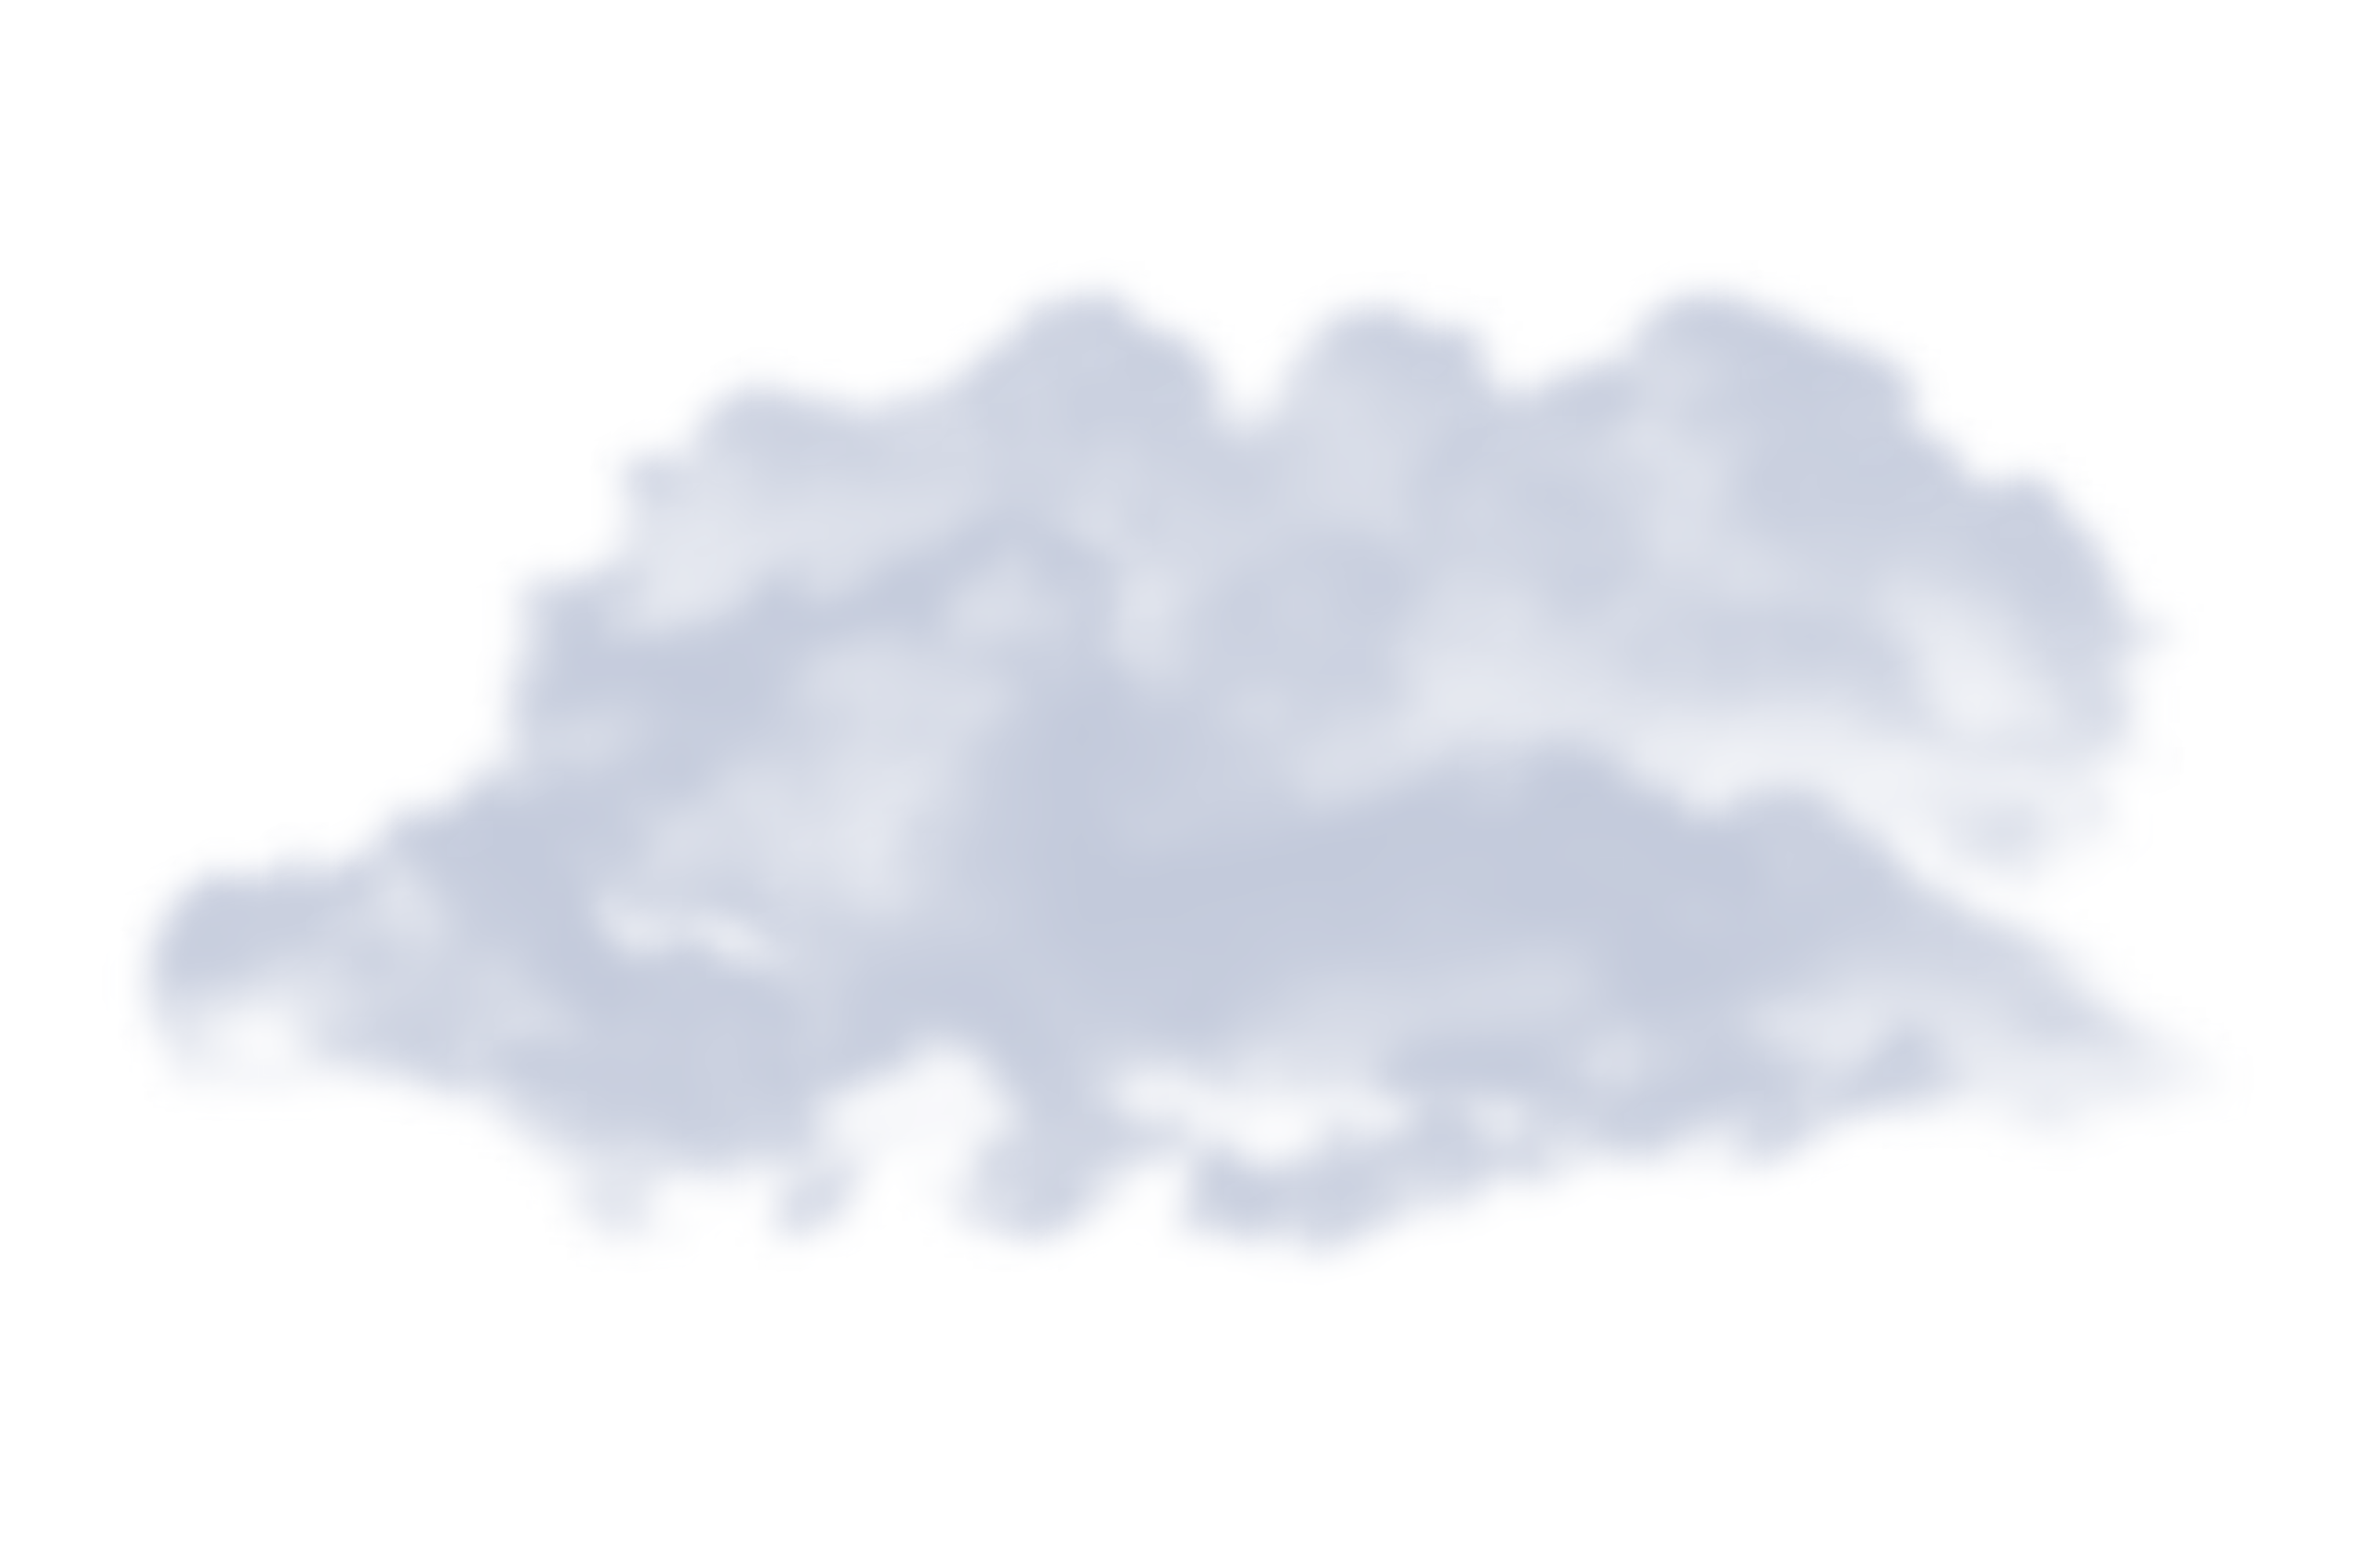
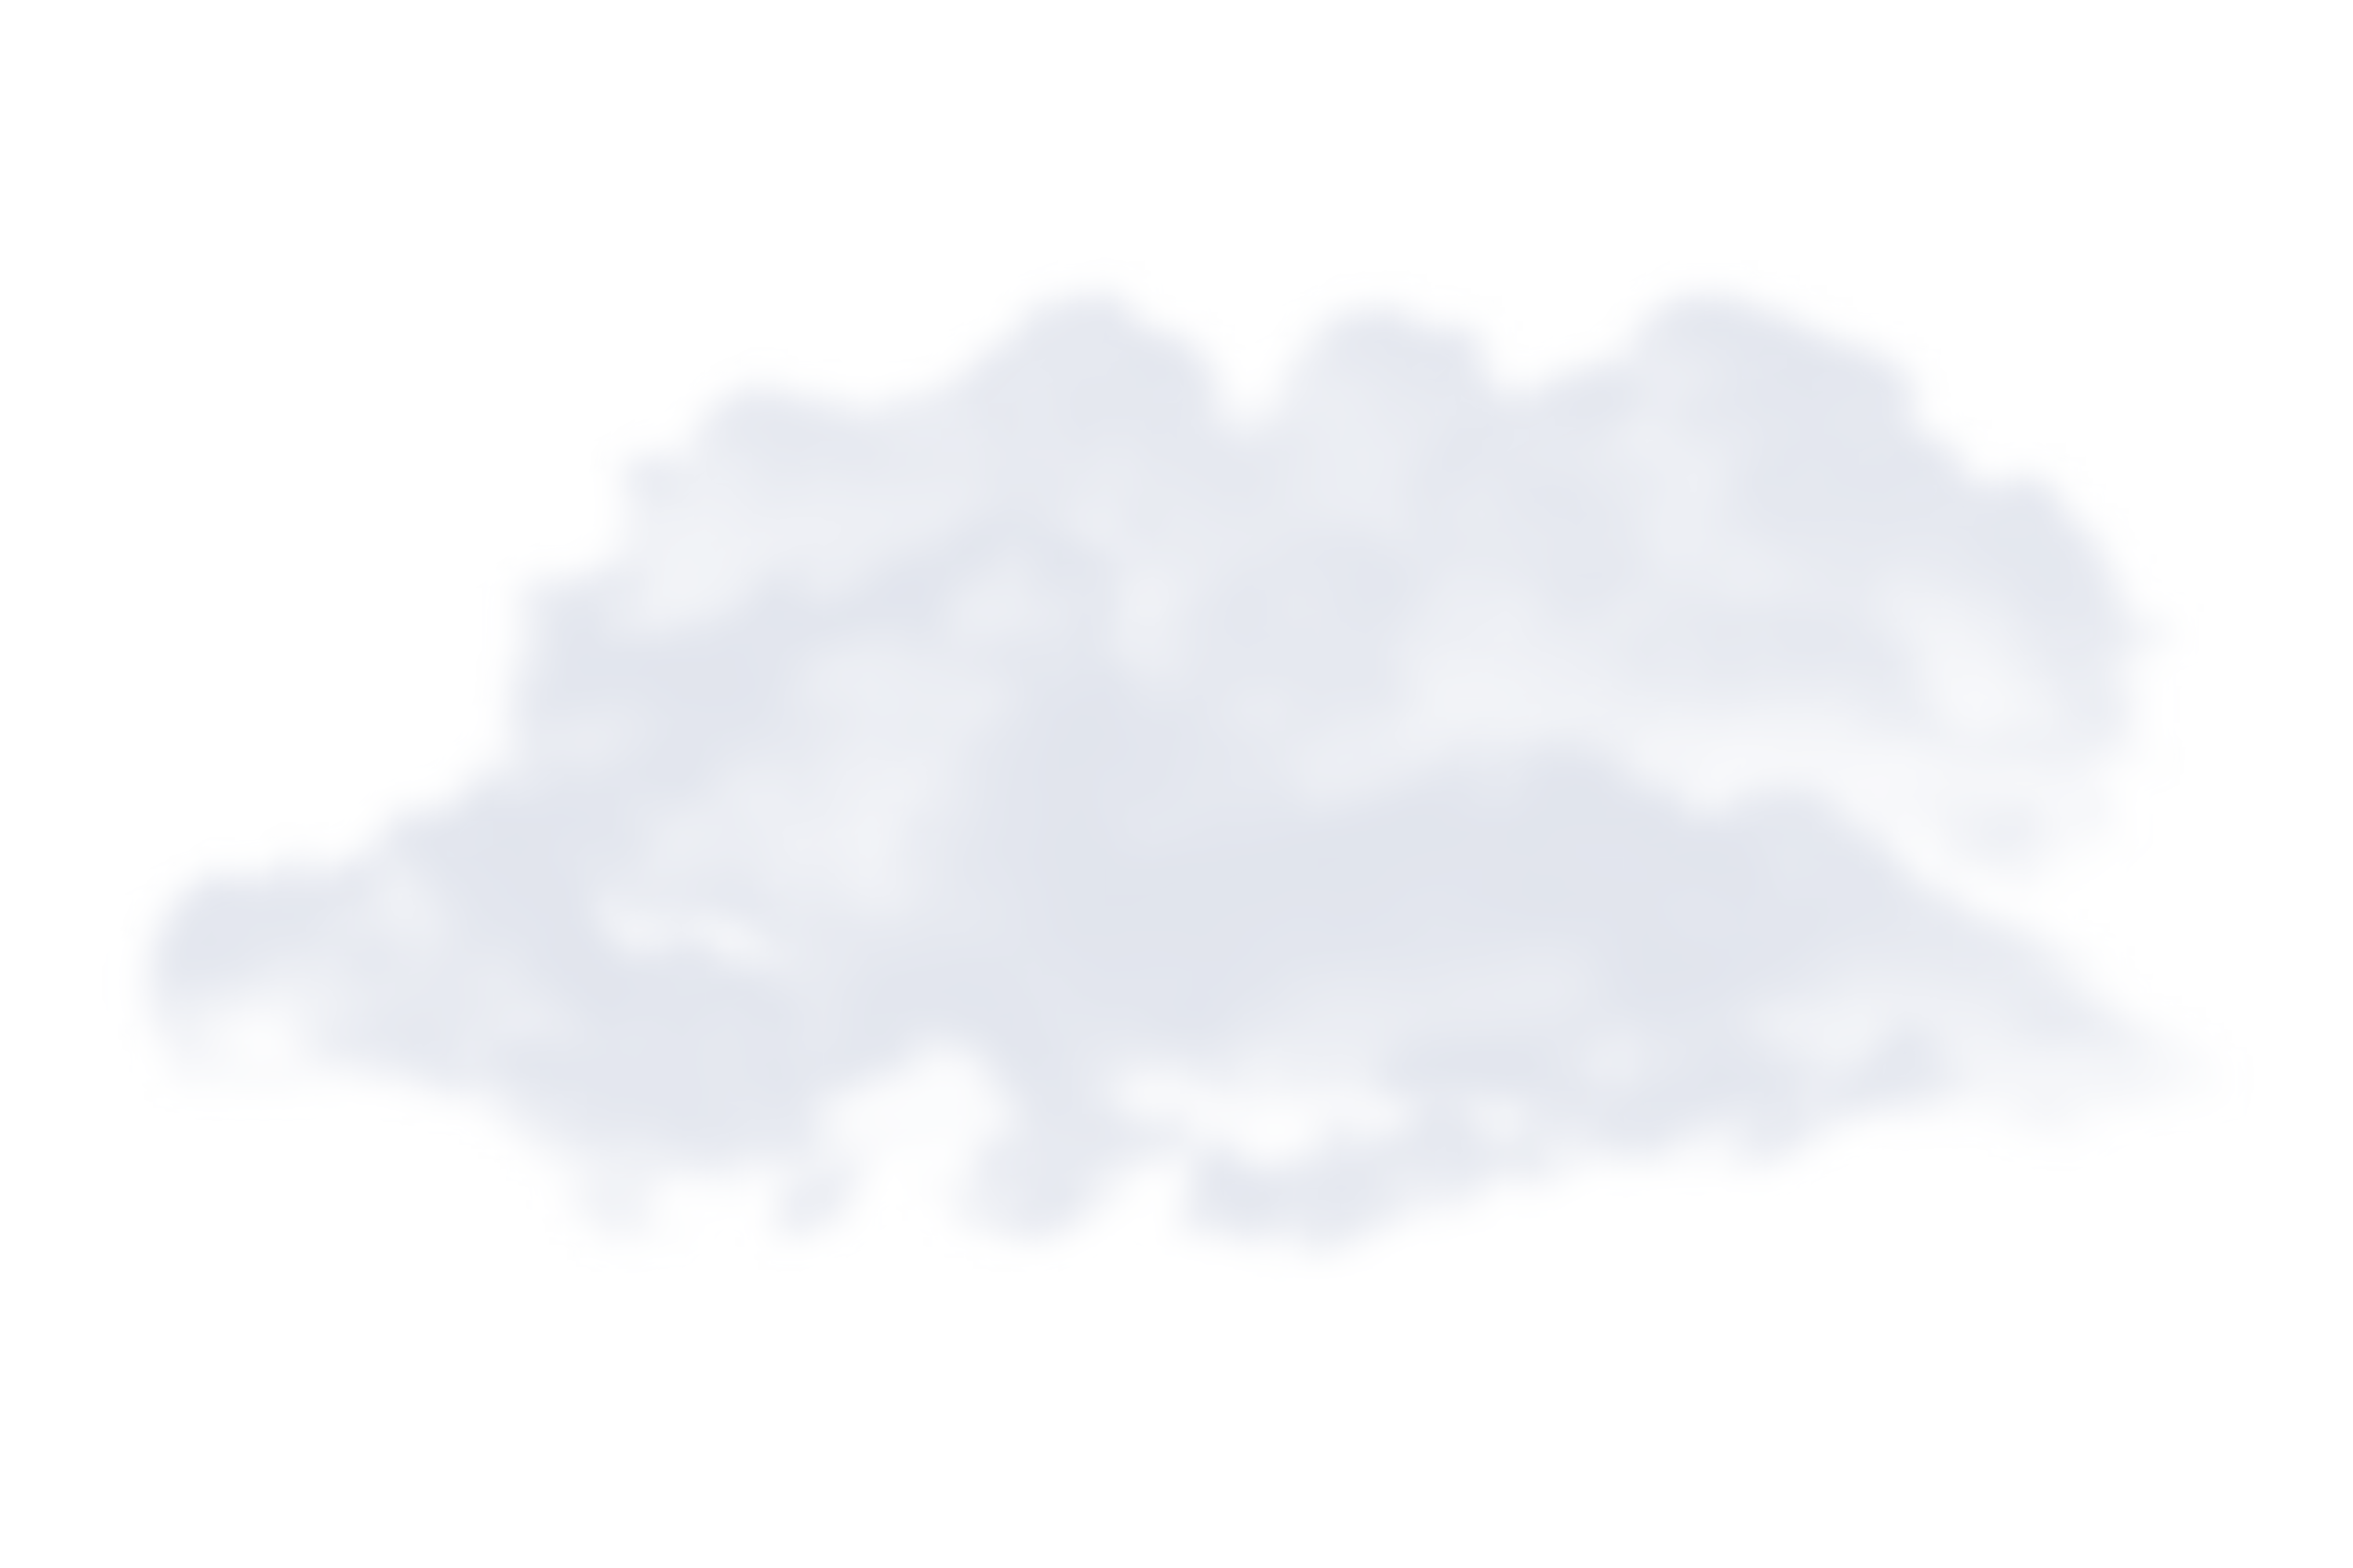
Update background style

diff --git a/src/styles/global.css b/src/styles/global.css
@@ -17,6 +17,7 @@ html {
   height: 100%;
   scrollbar-gutter: stable;
   background-image: url("/assets/cloud.png"), var(--sky-gradient);
+  background-size: 300% 40%, 100% 100%;
   background-repeat: no-repeat;
   background-attachment: fixed;
   animation: gradient 300s ease infinite;
@@ -29,13 +30,13 @@ a {
 
 @keyframes gradient {
   0% {
-    background-position: 0% 50%;
+    background-position: -50% 90%;
   }
   50% {
-    background-position: 100% 50%;
+    background-position: 150% 90%;
   }
   100% {
-    background-position: 0% 50%;
+    background-position: -50% 90%;
   }
 }
 
@@ -151,6 +152,8 @@ h1 {
 
 html.dark {
   --sky-gradient: linear-gradient(to bottom, #020111 10%, #3a3a52 100%);
+
+  background-image: url("/assets/cloud.png"), var(--sky-gradient);
   color: var(--light-font-base-color);
 }
 
@@ -162,6 +165,9 @@ html.dark {
 /* Desktop Layout variations */
 
 @media screen and (min-width: 636px) {
+  html {
+    background-size: 150% 40%, 100% 100%;
+  }
   .nav-links {
     position: unset;
     flex-direction: row;

diff --git a/src/components/ReactComponents/HamburgerIcon.tsx b/src/components/ReactComponents/HamburgerIcon.tsx
@@ -1,4 +1,4 @@
-import classes from "./HamburgerIcon.module.scss";
+import classes from "../../styles/HamburgerIcon.module.scss";
 export default function HamburgerIcon() {
   const handleToggleClick = () => {
     document.querySelector(".nav-links")?.classList.toggle("expanded");

diff --git a/src/components/ReactComponents/ThemeIcon.tsx b/src/components/ReactComponents/ThemeIcon.tsx
@@ -1,5 +1,5 @@
 import { useEffect, useState } from "preact/hooks";
-import classes from "./ThemeIcon.module.scss";
+import classes from "../../styles/ThemeIcon.module.scss";
 
 export default function ThemeIcon() {
   const [theme, setTheme] = useState<string>();
